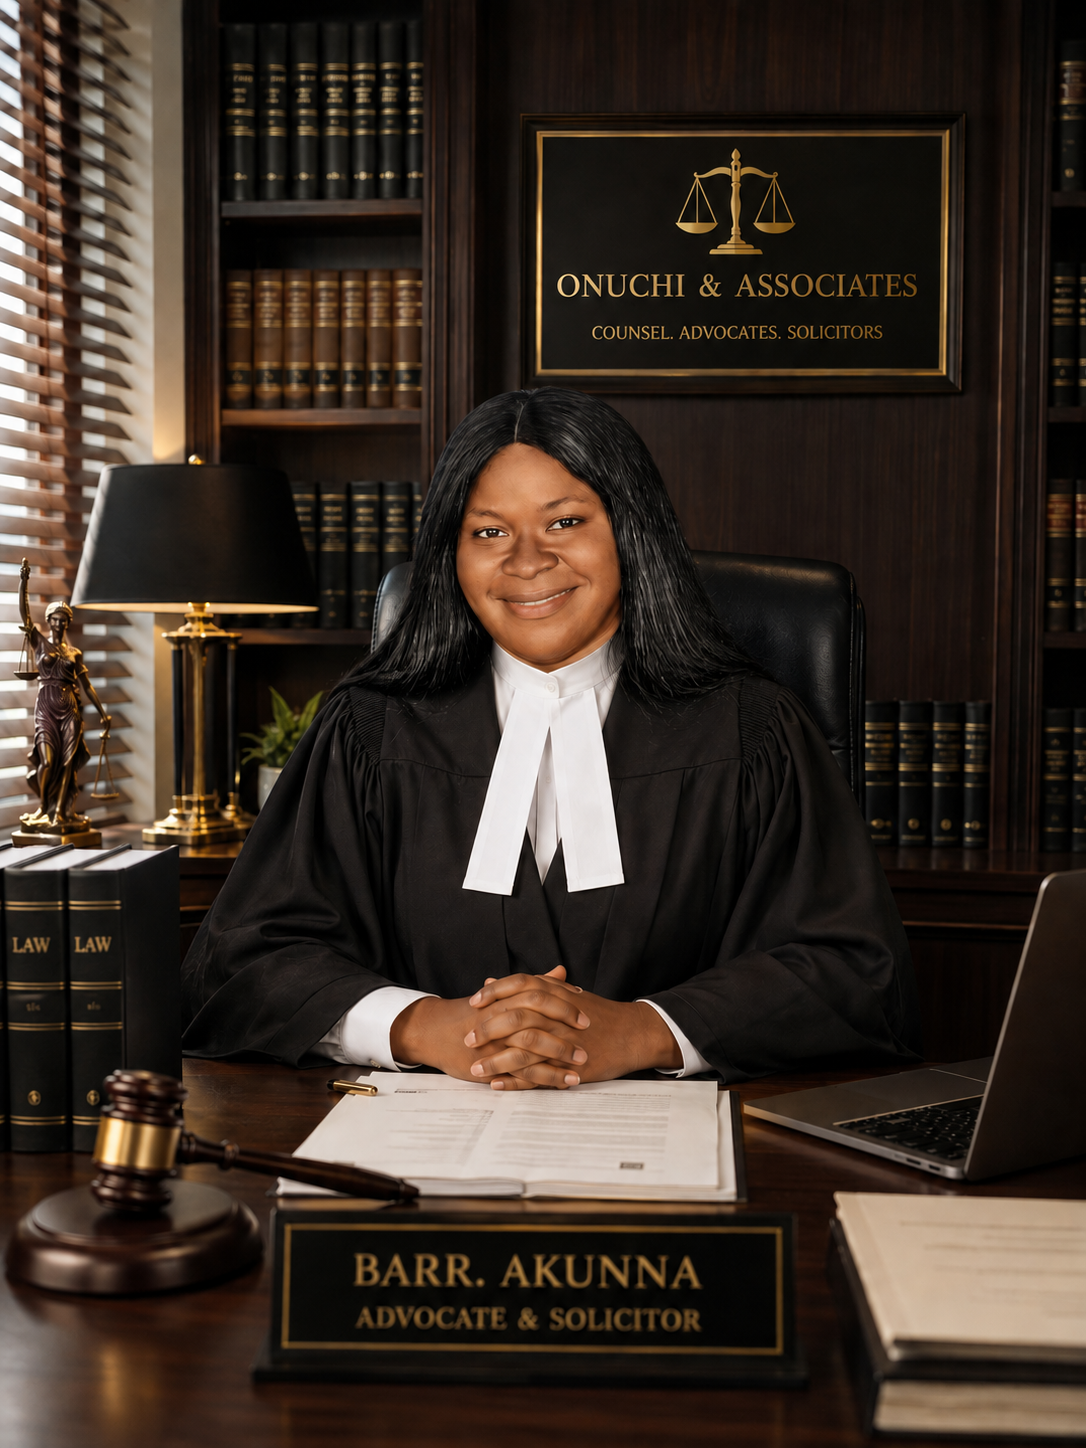
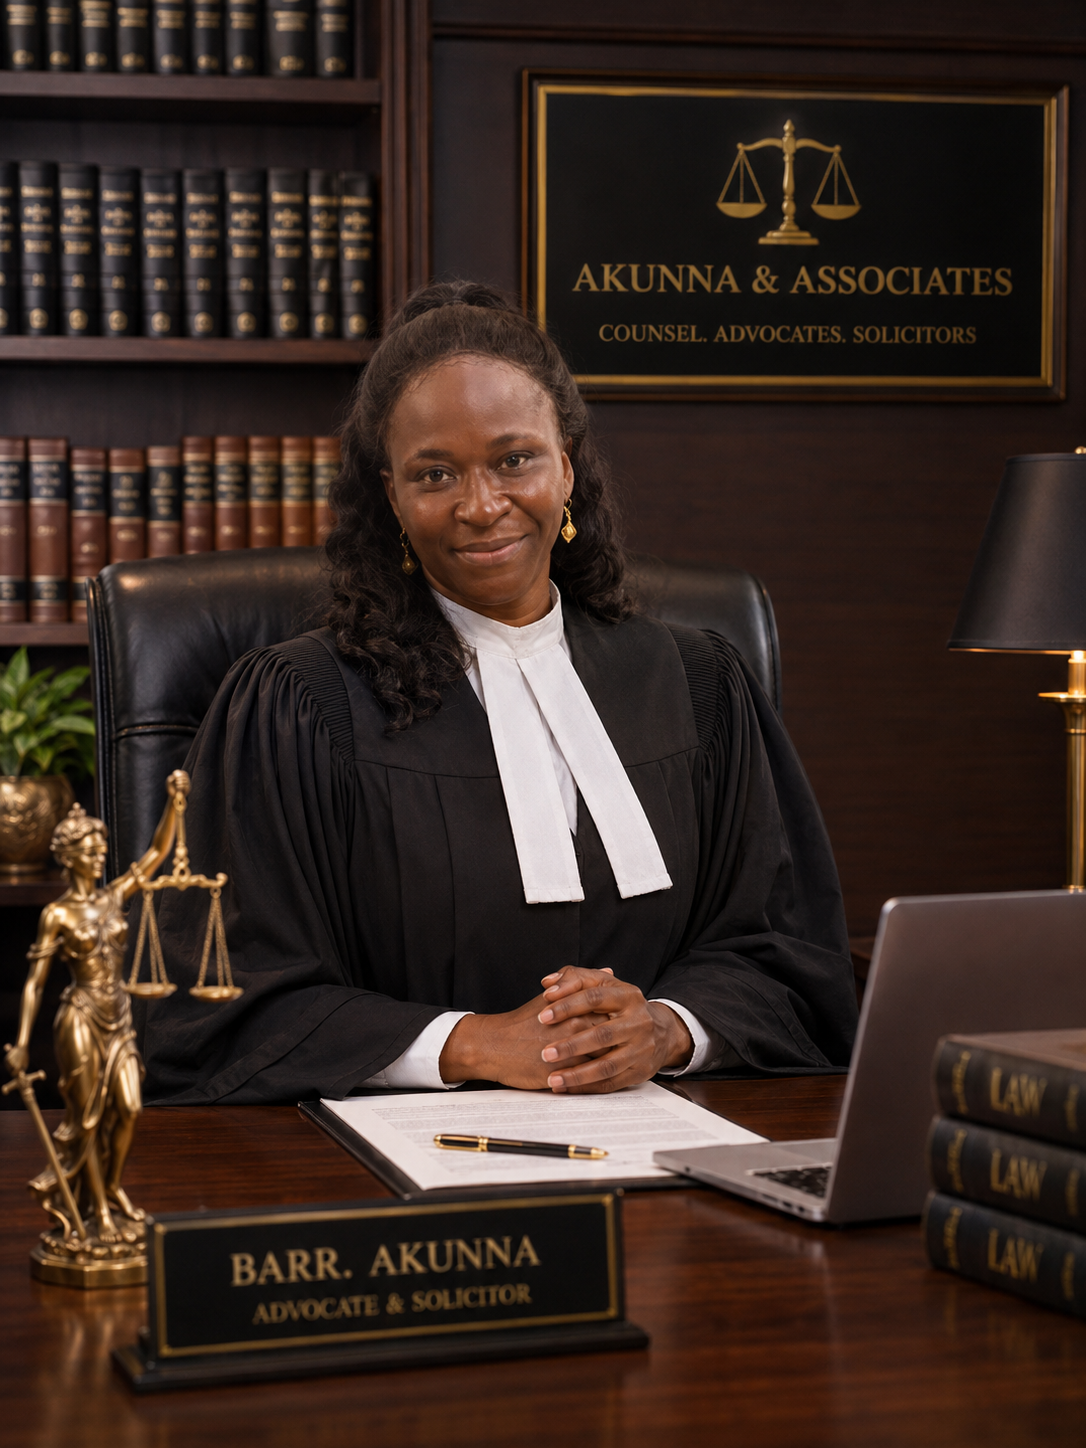
law

diff --git a/index.html b/index.html
@@ -391,7 +391,7 @@
                 <div class="tcard-quote">"</div>
                 <p class="tcard-text">
                   "Professional, responsive, and results-driven legal service.
-                  Chiagoziem Chambers handled our corporate matter with
+                  Oriaku Chambers handled our corporate matter with
                   exceptional precision and kept us informed at every step."
                 </p>
                 <div class="tcard-author">
@@ -454,19 +454,19 @@
         <h2 class="section-title" style="text-align: center">
           Frequently Asked <em>Questions</em>
         </h2>
-        <p>Clear answers to common questions about Chiagoziem Chambers</p>
+        <p>Clear answers to common questions about Oriaku Chambers</p>
       </div>
       <div class="faq-list reveal reveal-d1">
         <div class="faq-item">
           <button class="faq-question">
-            What legal services does Chiagoziem Chambers provide?<span
+            What legal services does Oriaku Chambers provide?<span
               class="faq-icon"
               >+</span
             >
           </button>
           <div class="faq-answer">
             <div class="faq-answer-inner">
-              Chiagoziem Chambers offers a wide range of services including
+              Oriaku Chambers offers a wide range of services including
               corporate law, property law, litigation, family law, immigration
               law, and legal advisory services — catering to both individuals
               and businesses.
